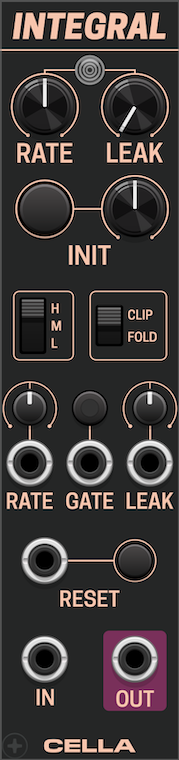
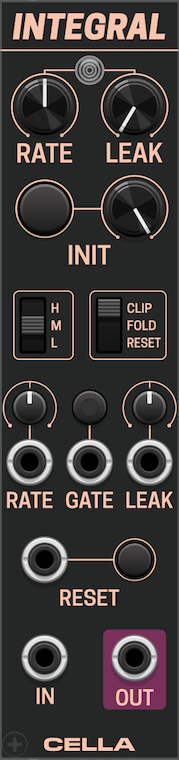
Update readme

diff --git a/src/Integral.cpp b/src/Integral.cpp
@@ -84,9 +84,11 @@ struct Integral : rack::Module {
     };
 
     struct IntegrationRateQuantity : rack::ParamQuantity {
-        static constexpr float baseTau[3] = {2.f, 0.25f, 0.03125f};      // LO, MID, HI
-        const float minRate = 1.f / (baseTau[0] * std::pow(2.f, -4.f));  // Max Tau -> Min Rate
-        const float maxRate = 1.f / (baseTau[2] * std::pow(2.f, 4.f));   // Min Tau -> Max Rate
+        // static constexpr float baseTau[3] = {2.f, 0.25f, 0.03125f};      // LO, MID, HI
+        static constexpr float baseTau[3] = {5.f, 0.25f, 0.00125f};  // LO, MID, HI
+        // static constexpr float baseTau[3] = {0.03125f, 0.00125f, 0.0002f};  // LO, MID, HI
+        const float minRate = 1.f / (baseTau[0] * std::pow(2.f, -5.f));  // Max Tau -> Min Rate
+        const float maxRate = 1.f / (baseTau[2] * std::pow(2.f, 5.f));   // Min Tau -> Max Rate
 
         std::string getDisplayValueString() override {
             if (!module) {
@@ -148,10 +150,10 @@ struct Integral : rack::Module {
     Integral() {
         config(NUM_PARAMS, NUM_INPUTS, NUM_OUTPUTS, NUM_LIGHTS);
 
-        configParam<IntegrationRateQuantity>(RATE_PARAM, -4.f, 4.f, 0.f, "Integration rate", "");
+        configParam<IntegrationRateQuantity>(RATE_PARAM, -5.f, 5.f, 0.f, "Integration rate", "");
         configParam<DecayTimeQuantity>(LEAK_PARAM, 0.f, 1.f, 0.f, "Decay time");
 
-        configParam(INIT_PARAM, 0.f, 10.f, 5.f, "Init value", "V");
+        configParam(INIT_PARAM, -10.f, 10.f, 10.f, "Init value", "V");
         configButton(INIT_BUTTON_PARAM, "Init");
         getParamQuantity(INIT_BUTTON_PARAM)->description =
             "Adds value of the Init knob to the input\n"
@@ -163,7 +165,7 @@ struct Integral : rack::Module {
         configParam(LEAK_CV_PARAM, -1.f, 1.f, 0.f, "Leak CV", "%", 0.f, 100.f);
         configButton(GATE_PARAM, "Integrate on gate low/high");
 
-        configSwitch(CLIP_PARAM, 0.f, 1.f, 1.f, "Clip", {"Fold", "Clip"});
+        configSwitch(CLIP_PARAM, 0.f, 2.f, 2.f, "Clip", {"Reset", "Fold", "Clip"});
         configButton(RESET_PARAM, "Reset");
 
         configInput(RATE_CV_INPUT, "Rate CV");
@@ -218,15 +220,15 @@ struct Integral : rack::Module {
 
         float rate = params[RATE_PARAM].getValue();
         rate += (inputs[RATE_CV_INPUT].isConnected()
-                     ? params[RATE_CV_PARAM].getValue() * inputs[RATE_CV_INPUT].getVoltage() / 5.f
+                     ? params[RATE_CV_PARAM].getValue() * inputs[RATE_CV_INPUT].getVoltage() / 2.f
                      : 0.f);
         const float effectiveTau = IntegrationRateQuantity::baseTau[rangeSel] * std::pow(2.f, -rate);
 
         float leakPos = params[LEAK_PARAM].getValue();
-        if (inputs[LEAK_CV_INPUT].isConnected())
-            leakPos = clamp(leakPos +
-                                params[LEAK_CV_PARAM].getValue() * inputs[LEAK_CV_INPUT].getVoltage() / 5.f,
-                            0.f, 1.f);
+        if (inputs[LEAK_CV_INPUT].isConnected()) {
+            float leakCV = params[LEAK_CV_PARAM].getValue() * inputs[LEAK_CV_INPUT].getVoltage() / 10.f;
+            leakPos = clamp(leakPos + leakCV, 0.f, 1.f);
+        }
 
         const float tauLeak = DecayTimeQuantity::getTimeConstantForValue(leakPos);
 
@@ -255,12 +257,14 @@ struct Integral : rack::Module {
 
         float clipValueVolt = 5.f * (clipValue + 1);
         const int clipSel = (int)std::round(params[CLIP_PARAM].getValue());
-        if (clipSel == 1) {
+        if (clipSel == 2) {
             y = clamp(y, -clipValueVolt, clipValueVolt);
+        } else if (clipSel == 0 && abs(y) > clipValueVolt) {
+            y = 0.f;
         }
 
         float outputValue = y;
-        if (clipSel == 0) {
+        if (clipSel == 1) {
             outputValue = fold(y, -clipValueVolt, clipValueVolt);
         }
         outputs[OUT_OUTPUT].setVoltage(outputValue);
@@ -304,7 +308,7 @@ struct IntegralWidget : rack::ModuleWidget {
         addParam(createParamCentered<RoundBlackKnob>(Vec(67.5, 104.35), module, Integral::INIT_PARAM));
 
         addParam(createParamCentered<CKSSThree>(Vec(16.54, 162.66), m, Integral::RANGE_PARAM));
-        addParam(createParamCentered<CKSS>(Vec(54.74, 162.66), m, Integral::CLIP_PARAM));
+        addParam(createParamCentered<CKSSThree>(Vec(54.74, 162.66), m, Integral::CLIP_PARAM));
 
         addParam(createParamCentered<Trimpot>(Vec(15.f, 203.79), module, Integral::RATE_CV_PARAM));
         addParam(createLightParamCentered<VCVLightButton<MediumSimpleLight<GoldLight>>>(Vec(45, 203.79), module, Integral::GATE_PARAM, Integral::GATE_LIGHT));

diff --git a/docs/Cella_Manual.md b/docs/Cella_Manual.md
@@ -23,7 +23,7 @@ Adding an accent to the envelope means that the peak point of the envelope will 
 
 <img src="images/AccentChart.png" alt="Cella Rich Accents" style="height: 200px;">
 
-#### **Key features / controls**
+### **Key features / controls**
 
 * **ATTACK** and **DECAY** set the rise and fall times of the envelope, ranging from 1ms to 10s.
 * **SHAPE** interpolates between a linear and an exponential envelope.
@@ -31,21 +31,21 @@ Adding an accent to the envelope means that the peak point of the envelope will 
 * **LEVEL** sets the baseline amplitude of the envelope (0%–100%, corresponding to 0V–10V).
 * **ACCENT** sets the maximum amplitude of the accent added to the baseline. Note that this amplitude is applied to the remaining amplitude headroom after the baseline is set. For example, if the baseline amplitude is set to 60% (peaking at 6V), an ACCENT level of 100% will add up to 4V of additional peak amplitude. With an ACCENT level of 50%, the maximum accent amplitude will be 2V, and the peak envelope will be at 8V (BASELINE \+ ACCENT).
 
-#### **Inputs**
+### **Inputs**
 
 * **Ascending/Descending button/input** in the center of the module sets the direction of change for the stepped accent: either from the lowest to highest level or vice versa.
 * **TRIG** accepts triggers and activates the envelope.
 * **ACCENT** accepts triggers, gates, and any CV signal between 0V and 10V. A high input at the ACCENT tells the module to generate an accent, and the incoming signal modulates the accent level, allowing for any desired accent pattern.
 * **ATT** and **DEC** allow modulation of Attack and Decay.
 
-#### **Outputs**
+### **Outputs**
 
 * **ACC** outputs the current accent level. Note that this output is not scaled by the ACCENT knob, allowing external signal modulation while the ACCENT knob is set to zero.
 * **ENV** outputs the resulting envelope.
 
 A unique feature of the Rich module is its tolerance for delay between the signal and accent triggers. In most modules, even a delay of 1 sample between the envelope trigger and accent trigger results in a missed accent. Such delays can occur if the number of cables between the clock source and trigger inputs differs, as each cable delays the signal by one sample. By default, Rich captures an accent trigger even if it occurs 5 samples before or after the envelope trigger. This window can be increased to ±10 samples or switched off in the context menu.
 
-#### **Context Menu Options**
+### **Context Menu Options**
 
 * **Attack Curve:** Choose between Logarithmic or Exponential curves for the attack section of the envelope.
 * **Exponent Function:** Choose between quadratic, cubic, and quartic functions for snappier envelopes.
@@ -67,7 +67,7 @@ While you can use this module for filtering sound sources, it is best suited for
 
 Under the hood, the module uses the DSP core from Audible Instruments' Liquid Filter but adds the option to use an 18dB 3-pole filter output, which was used by Rob Hordijk in his TwinPeak filter.
 
-#### **Controls**
+### **Controls**
 
 Here we’ll explain only non-obvious parameters:
 
@@ -78,7 +78,7 @@ Here we’ll explain only non-obvious parameters:
 * **XFM-B**  controls how much of the output from filter B is sent to modulate cut-off frequency of filter A.
 * Input to **FM-A CV** is normalled to input **FM-B CV**, so you can use one cable to modulate both filters.
 
-#### **Basic Use**
+### **Basic Use**
 
 <img src="images/TwinPeaksExample.png" alt="Twin Peaks Example" style="height: 380px;">
 
@@ -92,7 +92,7 @@ Send any stepped output to the input – for example, from VCV’s random module
 
 Bezier is a smooth random voltage generator that uses Bezier curves for interpolation between consecutive values. These curves allow the generation of lines with various characteristics, from smooth to spiky, using a limited set of parameters. The functionality is heavily inspired by the module *Random Bezier Waves* / *ADDAC507*, which **ADDAC** designed in collaboration with Rijnder Kamerbeek aka **Monotrail**.
 
-#### **General Algorithm**
+### **General Algorithm**
 
 1. **Random Value Generation**: At a frequency defined by the **FREQ** parameter, a new random value between \-5V and 5V is generated. Each time this value is generated, a trigger signal is sent to the **TRIG** port. By default, the random value is drawn from a uniform distribution, meaning there is no bias in the distribution of the values. Alternatively, it can be drawn from a normal distribution, which tends to generate values closer to the midpoint rather than the extremes. This behavior can be adjusted via the context menu.
 2. **Interpolation**: The module interpolates between the previous value and the newly generated one according to the curve parameterized by the **CURVE** knob. When the knob is set to the 12 o'clock position, the interpolation is linear. Turning it fully clockwise results in a rounded curve, while turning it fully counterclockwise produces a spiked shape. The result of the interpolation is output through the **OUT** port, while an inverted signal (relative to the **OFFSET**) is sent to the **OUT–** port. Additionally, the **GATE** output continuously sends a signal equal to the maximum value between 0 and the generated curve.
@@ -104,13 +104,13 @@ Additional Details:
 * The generated signal can be scaled using the **LEVEL** knob, which attenuates the signal from 0% to 100%.
 * The frequency cannot be synchronized with the outside clock.
 
-#### **Modulation**
+### **Modulation**
 
 Both the frequency and level can be modulated with an external signal. By default, modulation is sampled and applied only when a new random value is generated. However, this behavior can be modified via context menu switches, allowing continuous modulation of frequency and/or level.
 
 Frequency modulation is unrestricted, while level modulation, when applied externally, is typically clipped to the 0% to 100% range. This clipping behavior can also be adjusted in the context menu.
 
-#### **Clipping**
+### **Clipping**
 
 Since the output is limited to the \-5V to 5V range, applying an offset may cause the resulting curve to clip. This clipping is handled differently based on the selected mode:
 
@@ -118,7 +118,7 @@ Since the output is limited to the \-5V to 5V range, applying an offset may caus
 * **FOLD**: The curve folds back from the clipping point.
 * **WRAP**: The curve jumps to the opposite limit and continues from there.
 
-#### **Context Menu Options**
+### **Context Menu Options**
 
 * **Continuous Level Modulation / Continuous Frequency Modulation**: When off, modulation signal is sampled only when a new random value is drawn. When on, modulation is applied continuously.
 * **Asymmetric Curve**: When enabled, the curve will have asymmetry, starting smoothly and ending spiky, or vice-versa, depending on the **CURVE** parameter.
@@ -140,7 +140,7 @@ Euler is a simple module designed to measure the rate of change of an incoming s
 
 If you feed square wave (see right image above), the resulting output would be short triggers of 10V and \-10V, which correspond to slope rising or falling vertically at 90° and \-90° angles, respectively.
 
-#### **Sensitivity and FREQ parameter**
+### **Sensitivity and FREQ parameter**
 
 Let’s clarify the function of the **FREQ** parameter in the Euler module:
 
@@ -163,9 +163,13 @@ Parameter **SMOOTH** applies smoothing over a set time period – up to 1 second
 
 <img src="images/Integral.png" alt="Cella - Integral" style="height: 380px;">
 
-The **Integral** module is a signal integrator. In simple terms, one can think of it like a bucket: it accumulates or "charges up" when a positive voltage is fed into its input, and it subtracts or "loses charge" when a negative voltage is applied. The output voltage reflects this accumulated total. If the input is zero, the output (ideally) remains constant, unless a "leak" is introduced.
+The **Integral** module is a signal integrator. In simple terms, one can think of it like a bucket: it accumulates or "charges up" when a positive voltage is fed into its input, and it subtracts or "loses charge" when a negative voltage is applied. The output voltage reflects this accumulated total. If the input is zero, the output remains constant, unless a "leak" is introduced.
 
-#### **Key Features / Controls**
+In other words, its like a memory cell: it can store the value, similar to flip-flop circuit or sample-and-hold, although value update mechanism is different.
+
+Integrator is a key component of analog computing circuits, including modelling of chaotic equations. It can also be used in cybernetic synthesis, see more in Nathan Ho's [post](https://nathan.ho.name/posts/cybernetic-synthesis/). But it can have many general applications, especially in generative music.
+
+### **Key Features / Controls**
 
 * **RATE:** This knob, in conjunction with the three-position rate range switch (see below), sets the integration rate in Hertz (Hz). This rate determines how many volts the output will change per second for a 1 Volt DC input. For example, if the effective rate is set to 1 Hz, a constant +1V input will cause the output to rise by 1V per second (assuming no leak). A -1V input would cause it to fall by 1V per second. Turning the knob clockwise increases this rate.
 
@@ -178,13 +182,14 @@ The **Integral** module is a signal integrator. In simple terms, one can think o
 *  **INIT Knob:** Sets the voltage value (0V to +10V) that is added to the input when the INIT button is pressed.
 
 *  **Rate Range Switch:** sets the coarse range for the integration **RATE** knob, determining the effective integration rate in Hz. The approximate rate ranges (with the rate knob from fully CCW to fully CW) and the rate at the center (default) position of the rate knob are:
-    *   **H:** 2 Hz to 512 Hz. (Center: 32 Hz)
-    *   **M:** 0.25 Hz to 64 Hz. (Center: 4 Hz)
-    *   **L:** 0.03 Hz to 8 Hz. (Center: 0.5 Hz)
+    *   **H:** 25 Hz to 25.6 kHz. (Center: 800 Hz)
+    *   **M:** 0.125 Hz to 128 Hz. (Center: 4 Hz)
+    *   **L:** 6.25 mHz to 6.4 Hz. (Center: 0.2 Hz)
 
 *  **Clip Behavior Switch:** Determines the behavior of the output signal when it reaches its maximum or minimum voltage limits (configurable via the context menu, ±5V or ±10V).
     *   **CLIP:** The output signal is hard-clipped; it will not exceed the set voltage limits.
     *   **FOLD:** When the output attempts to exceed a limit, it "folds" back, reversing direction and staying within the voltage boundaries.
+    *   **RESET:** When the output reaches the limit, integration state resets to 0V.
 
 *  **Gate Input & Mode Button:**
     *   **Gate Input:** Accepts a gate or trigger signal to control when integration occurs.
@@ -208,7 +213,7 @@ The **Integral** module is a signal integrator. In simple terms, one can think o
 
 **Resonators** is a module that features four pitched resonators based on the Karplus-Strong algorithm. It is designed to create rich, resonant sounds by simulating the behavior of plucked strings or other resonant bodies. Functionality is inspired by audio effect of the same name found in the popular DAW.
 
-#### **Key Features / Controls**
+### **Key Features / Controls**
 
 * **PITCH I-IV**: Sets the pitch for each of the four resonators. The pitch can be adjusted from -54 to +54 semitones relative to middle C (C4).
 * **GAIN I-IV**: Controls the amplitude (gain) for each resonator, ranging from 0% to 100%.
@@ -217,12 +222,12 @@ The **Integral** module is a signal integrator. In simple terms, one can think o
 * **AMP**: Sets the overall amplitude of the output signal.
 * **MIX**: Blends the dry input signal with the wet resonated signal.
 
-#### **Inputs**
+### **Inputs**
 
 * **IN**: Accepts the incoming audio signal to be processed by the resonators.
 * **PITCH I-IV**: Accepts 1V/octave pitch control signals for each resonator. The first input is polyphonic: first four channels will be routed to respective resonators' pithes.
 
-#### **Outputs**
+### **Outputs**
 
 * **WET**: Outputs the wet (resonated) signal. This output is polyphonic, where outputs from four resonators occupy channels 1-4.
 * **OUT**: Outputs the final mixed signal, combining the dry input and wet resonated signals.
@@ -233,7 +238,7 @@ The **Integral** module is a signal integrator. In simple terms, one can think o
 
 **Bytebeat** is a bytebeat evaluator that allows users to create complex audio signals using bytebeat expressions. The module features several parameters and inputs to modulate the bytebeat expressions in real-time. It also supports various bit-depth of the output.
 
-#### **Bytebeat Expressions**
+### **Bytebeat Expressions**
 
 Bytebeat expression is a simple C-compatible code that generates audio waveforms based on combination of various operators, integer values and the value of a time variable `t`.
 
@@ -249,7 +254,7 @@ Supported operators:
 For comprehensive introduction to bytebeats I recommend [Beginners Guide by The Tuesday Night Machines](https://nightmachines.tv/downloads/Bytebeats_Beginners_Guide_TTNM_v1-5.pdf).
 You can also find and test a lot of bytebeats online [here](https://dollchan.net/bytebeat/) and [here](https://bytebeat.demozoo.org/).
 
-#### **Key Features / Controls**
+### **Key Features / Controls**
 * **Editor**: Bytebeat editor. If multiline option is off, expression is submitted with **Enter**, otherwise with **Shift+Enter**.
 * **FREQ**: Sets the base frequency of the bytebeat expression. Defaults to traditional 8000 Hz.
 * Parameters **a**, **b**, **c**: Adjustable parameters that you can use within bytebeat expression, from range [0, 128].
@@ -257,25 +262,25 @@ You can also find and test a lot of bytebeats online [here](https://dollchan.net
 * **RUN**: Button to start/stop the bytebeat generation.
 * **RESET**: Button to reset the bytebeat sequence.
 
-#### **Inputs**
+### **Inputs**
 * **a CV**, **b CV**, **c CV**: CV input for parameters **a**, **b**, **c**.
 * **RUN**: CV input to start/stop the bytebeat generation.
 * **RESET**: CV input to reset the bytebeat sequence, sets **t** to 0.
 * **CLOCK**: Clock input to synchronize the bytebeat generation. When cable is connected, **FREQ** sets clock multiplier.
 
-#### **Outputs**
+### **Outputs**
 
 * **Audio**: Audio output of the bytebeat expression.
 
-#### **Lights**
+### **Lights**
 * **ERR** lights up if entered expression is incorrect.
 * **MOD** lights up if expression has been modified but not submitted.
 
-#### Context Menu Options
+### Context Menu Options
 - **Output Range**: Select the output voltage range from options -2.5V..2.5V, -5V..5V, 0..5V, 0..10V.
 - **Multiline**: Enable or disable multiline mode for the bytebeat expression input.
 
-#### **Example Bytebeat Expressions**
+### **Example Bytebeat Expressions**
 * `t*(42&t>>10)`
 * `t+(t&t^t>>6)-t*(t>>9&(t%16?2:6)&t>>9)`
 * `(t|(t>>9|t>>7))*t&(t>>11|t>>9)`
@@ -295,7 +300,7 @@ Cognitive Shift is an advanced 8-bit digital shift register module for VCV Rack.
 
 Main differentiator from other implementations is the ability to output clocks, triggers or gates per each step without merging consecutive values together, and yet allow for self-patching. This was inspised by shift register behaviour of "Double Knot" instrument by Lorre Mill.
 
-## Core Concept: The Shift Register
+### Core Concept: The Shift Register
 
 At its heart, Cognitive Shift is an 8-bit memory bank.
 
@@ -304,7 +309,7 @@ At its heart, Cognitive Shift is an 8-bit memory bank.
 3.  **Shifting:** The determined input bit becomes the new state of Bit 1. The previous state of Bit 1 moves to Bit 2, Bit 2 moves to Bit 3, and so on, up to Bit 7 moving to Bit 8. The previous state of Bit 8 is discarded.
 4.  **Output:** The state of each of the 8 bits (0 or 1) is available at the individual **BIT 1-8** outputs and is used to generate the various DAC-based CV outputs.
 
-## Features
+### Features
 
 *   8-bit digital shift register.
 *   Clock-driven operation via the **CLOCK** input.
@@ -324,9 +329,9 @@ At its heart, Cognitive Shift is an 8-bit memory bank.
 *   Intelligent self-patching detection for stable feedback loops.
 *   Context menu options for Bit Output Mode, Logic Type selection, and Input Override behavior.
 
-## Operational Details
+### Operational Details
 
-### Input Logic Determination
+#### Input Logic Determination
 
 On each rising edge of the **CLOCK** input, Cognitive Shift determines the next bit (Bit 1) to enter the shift register using the following priority-based logic:
 
@@ -349,7 +354,7 @@ On each rising edge of the **CLOCK** input, Cognitive Shift determines the next 
 
 **Note:** Inputs (**DATA**, **LOGIC**, **XOR**) influence the determination process only when cables are connected. Unconnected inputs are effectively ignored.
 
-### Logic Types (Context Menu)
+#### Logic Types (Context Menu)
 
 The logic type determines how the **LOGIC** input combines with the DATA input bit. This can be configured via the context menu "Logic types":
 
@@ -365,7 +370,7 @@ Selecting different logic types allows the creation of diverse and complex patte
 **Tip**: you can see currently selected logic type in the tooltip if you hover mouse over LOGIC port.
 
 
-### Bit Output Modes (Context Menu)
+#### Bit Output Modes (Context Menu)
 
 You can change how the individual **BIT 1-8** outputs behave by right-clicking the module panel and selecting an option under "Bit output mode":
 
@@ -373,7 +378,7 @@ You can change how the individual **BIT 1-8** outputs behave by right-clicking t
 *   **Gates:** When a bit is High, its output jack emits a constant high voltage of +10V. When the bit is Low, the output is 0V. Note that consecutive positive bits generate one long gate rather than few individual ones.
 *   **Triggers:** When a bit is High *and* a **CLOCK** pulse arrives, its output jack emits a short trigger pulse.
 
-## Self-Patching
+### Self-Patching
 
 Cognitive Shift is designed to handle self-patching gracefully. This means you can connect one of its own outputs (e.g., **BIT 3**) to one of its inputs (e.g., **DATA**, **XOR**, **LOGIC**) without causing instability common in digital feedback loops.
 
@@ -390,7 +395,7 @@ Self-patching allows Cognitive Shift to generate complex, evolving, and often ps
 **Important disclaimer**
 Due to complex logic of handling self-patching, stacked cables on DATA, XOR and LOGIC won't be handled properly. If you need to merge few sources of data, program LOGIC input to `OR` mode.
 
-## Patch Ideas
+### Patch Ideas
 
 *   **Basic Sequencer:** Use **BIT 1-8** outputs (in Gate mode) to trigger drum sounds or envelopes for an 8-step sequence. Manually enter patterns with **WRITE**/**ERASE**, or feed a gate pattern into **DATA**.
 *   **CV Sequencer:** Use the **DAC** outputs to generate stepped CV sequences for pitch or modulation.
@@ -434,12 +439,12 @@ The way the connected audio inputs are interpreted and processed depends on the 
 
 **Why Mode Matters:** The selected mode directly influences the final loudness value. Because the ITU-R BS.1770 standard sums the energy from both channels for stereo analysis (but only uses the single channel for mono), processing the same mono audio signal in 'Stereo' mode will typically result in a reading approximately 3 LUFS higher than processing it in 'Mono' mode. For uncorrelated stereo signal that difference might be higher or lower.
 
-## Controls
+### Controls
 
 *   **Reset Button**: Manually resets all integrated, maximum, and historical measurements when clicked.
 *   **Target Loudness**: Sets the target loudness level in LUFS (Loudness Units Full Scale), ranging from -36 LUFS to 0 LUFS (default: -23 LUFS). This primarily affects the visualization on the Momentary Loudness bar, indicating levels below (white) or above (red) the target. On **Loud**, target loudness can be adjusted with a slider in the context menu.
 
-## Measurements & Displays
+### Measurements & Displays
 
 The module features a large display area showing several loudness metrics:
 
@@ -461,7 +466,7 @@ The module features a large display area showing several loudness metrics:
 
 9.  **TRUE PEAK MAX (TPMAX)**: Displays the maximum true peak level (accounting for inter-sample peaks) recorded on either channel since the last reset. The value turns red if it exceeds -0.5 dBTP, indicating potential clipping after D/A conversion.
 
-## Context Menu
+### Context Menu
 
 Right-clicking the panel opens the context menu, which includes:
 
